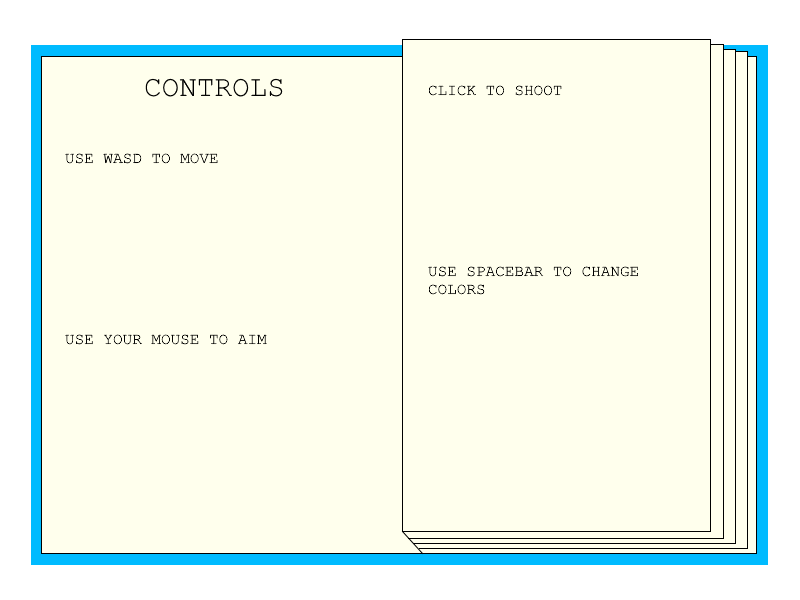
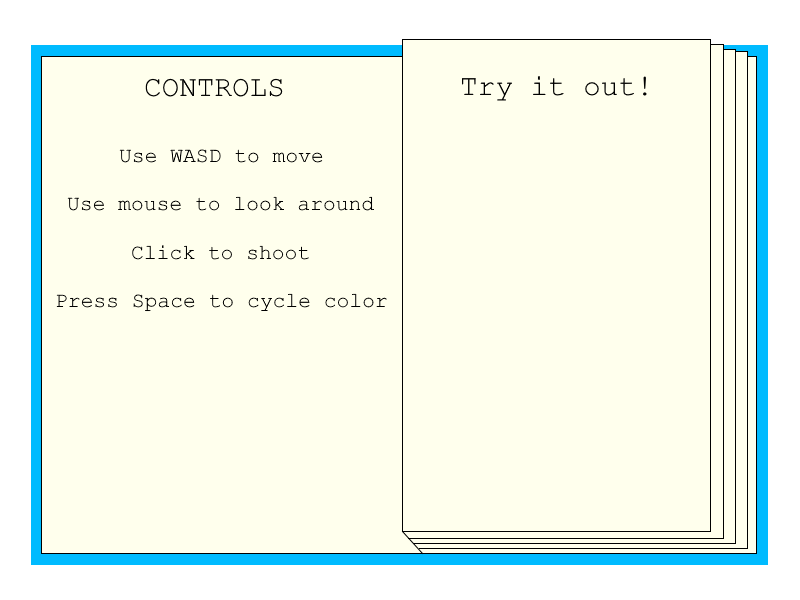
controls example player added

diff --git a/manual.js b/manual.js
@@ -8,7 +8,7 @@ function InstructionsScreen(bgCoord) {
     [document.getElementById("manualpage2-1"), document.getElementById("manualpage2-3"), document.getElementById("manualpage2-2"), document.getElementById("manualpage2-3"), 
     document.getElementById("manualpage2-4"), document.getElementById("manualpage2-6"), document.getElementById("manualpage2-5"), document.getElementById("manualpage2-6"), document.getElementById("manualpage2-7"), document.getElementById("manualpage2-9"),
     document.getElementById("manualpage2-8"), document.getElementById("manualpage2-9"), document.getElementById("manualpage2-10"), document.getElementById("manualpage2-12"), document.getElementById("manualpage2-11"),
-    document.getElementById("manualpage2-12")]];
+    document.getElementById("manualpage2-12")], [document.getElementById("manualpage3")], [document.getElementById("manualpage4")], [document.getElementById("manualpage5")]];
     this.pageIndex = 0;
     this.currentPage = this.pages[this.pageIndex];
     this.lastRefresh = 0;
@@ -19,6 +19,7 @@ function InstructionsScreen(bgCoord) {
     this.buttonList = [];
     this.nextLastButtonList = [];
     this.buttonList.push(new CloseInstructionsButton());
+    this.playerExampleSpawned = false;
     
     this.draw = function(ctx) {
         this.currentPage = this.pages[this.pageIndex];
@@ -39,7 +40,15 @@ function InstructionsScreen(bgCoord) {
         this.nextLastButtonList.forEach(b => {
             b.draw(ctx);
         });
+        if (this.pageIndex == 0) {
+            if (!this.playerExampleSpawned) {
+                entityList.player = new Player(635, 220, 0);
+                this.playerExampleSpawned = true;
+            }
+            ctx.drawImage(document.getElementById("space"), 500, 120, 270, 200);
+            entityList.playerProjectiles=entityList.playerProjectiles.filter(i=> i.x < 755 && i.x >515 && i.y > 135 && i.y < 305); 
 
+        }
     }
     this.update = function() {
         this.currentPage = this.pages[this.pageIndex];
@@ -110,10 +119,7 @@ function CloseInstructionsButton() {
 
     this.onRelease = function() {
         loadMenu();
-        this.w -= 4;
-        this.h -= 4;
-        this.x += 2;
-        this.y += 2;
+        entityList.player = null;
     }
 
     this.onClick = function() {
@@ -145,8 +151,13 @@ function NextPageButton(next) {
     }
 
     this.onRelease = function() {
+        if (entityList.other[0].pageIndex == 0) {
+            entityList.player = null;
+            entityList.other[0].playerExampleSpawned = false;
+        }
         entityList.other[0].pageIndex = this.next;
         entityList.other[0].nextLastButtonList = [];
+        entityList.playerProjectiles = [];
     }
 
     this.onClick = function() {

diff --git a/index.html b/index.html
@@ -146,19 +146,26 @@ canvas {
 <img id="purpleMedic" width="0" height="0" src="medicship2.png">
 <img id="greenMedic" width="0" height="0" src="medicship3.png">
 
-<img id="manualpage1" width="0" height="0" src="manual/page1.png")>
-<img id="manualpage2-3" width="0" height="0" src="manual/page2-1-red.png")>
-<img id="manualpage2-2" width="0" height="0" src="manual/page2-2-red.png")>
-<img id="manualpage2-1" width="0" height="0" src="manual/page2-pressed-red.png")>
-<img id="manualpage2-6" width="0" height="0" src="manual/page2-1-purple.png")>
-<img id="manualpage2-5" width="0" height="0" src="manual/page2-2-purple.png")>
-<img id="manualpage2-4" width="0" height="0" src="manual/page2-pressed-purple.png")>
-<img id="manualpage2-9" width="0" height="0" src="manual/page2-1-yellow.png")>
-<img id="manualpage2-8" width="0" height="0" src="manual/page2-2-yellow.png")>
-<img id="manualpage2-7" width="0" height="0" src="manual/page2-pressed-yellow.png")>
-<img id="manualpage2-12" width="0" height="0" src="manual/page2-1-green.png")>
-<img id="manualpage2-11" width="0" height="0" src="manual/page2-2-green.png")>
-<img id="manualpage2-10" width="0" height="0" src="manual/page2-pressed-green.png")>
+<img id="manualpage1" width="0" height="0" src="manual/page1.png">
+<img id="manualpage2-3" width="0" height="0" src="manual/page2-1-red.png">
+<img id="manualpage2-2" width="0" height="0" src="manual/page2-2-red.png">
+<img id="manualpage2-1" width="0" height="0" src="manual/page2-pressed-red.png">
+<img id="manualpage2-6" width="0" height="0" src="manual/page2-1-purple.png">
+<img id="manualpage2-5" width="0" height="0" src="manual/page2-2-purple.png">
+<img id="manualpage2-4" width="0" height="0" src="manual/page2-pressed-purple.png">
+<img id="manualpage2-9" width="0" height="0" src="manual/page2-1-yellow.png">
+<img id="manualpage2-8" width="0" height="0" src="manual/page2-2-yellow.png">
+<img id="manualpage2-7" width="0" height="0" src="manual/page2-pressed-yellow.png">
+<img id="manualpage2-12" width="0" height="0" src="manual/page2-1-green.png">
+<img id="manualpage2-11" width="0" height="0" src="manual/page2-2-green.png">
+<img id="manualpage2-10" width="0" height="0" src="manual/page2-pressed-green.png">
+
+<img id="manualpage3" width="0" height="0" src="manual/page3.png">
+
+<img id="manualpage4" width="0" height="0" src="manual/page4.png">
+
+<img id="manualpage5" width="0" height="0" src="manual/page5.png">
+
 <img id="manualbackbutton" width="0" height="0" src="manual/backbutton.png">
 <img id="manualbackbuttonhovered" width="0" height="0" src="manual/backbutton-hovered.png">
 <img id="manualbackbuttonpressed" width="0" height="0" src="manual/backbutton-pressed.png">
